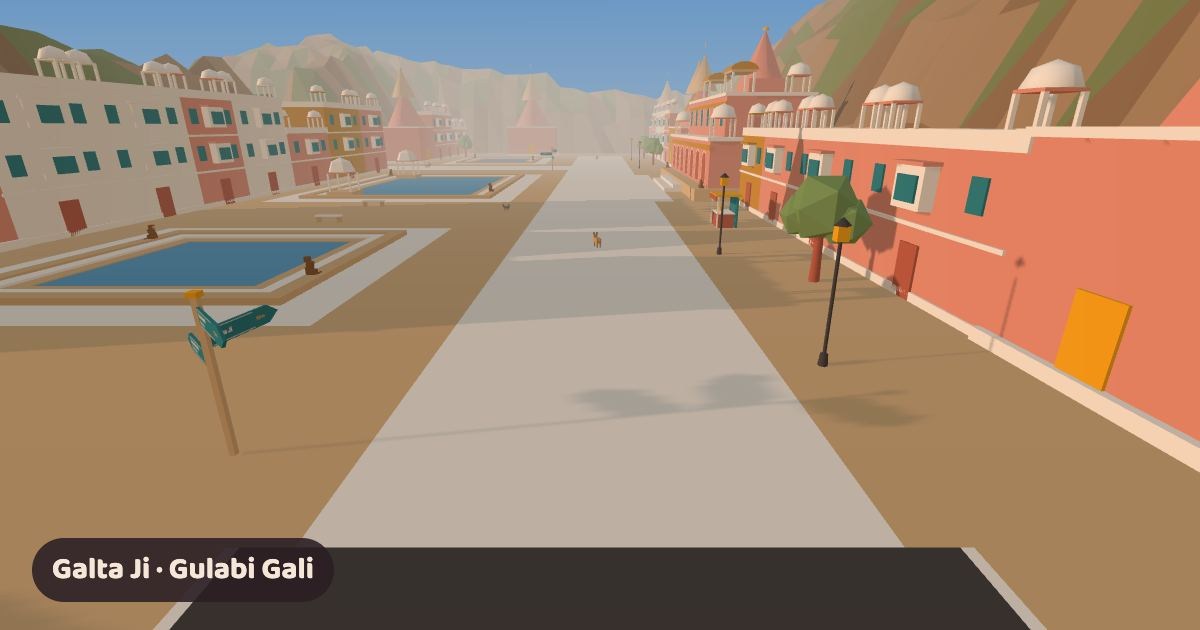
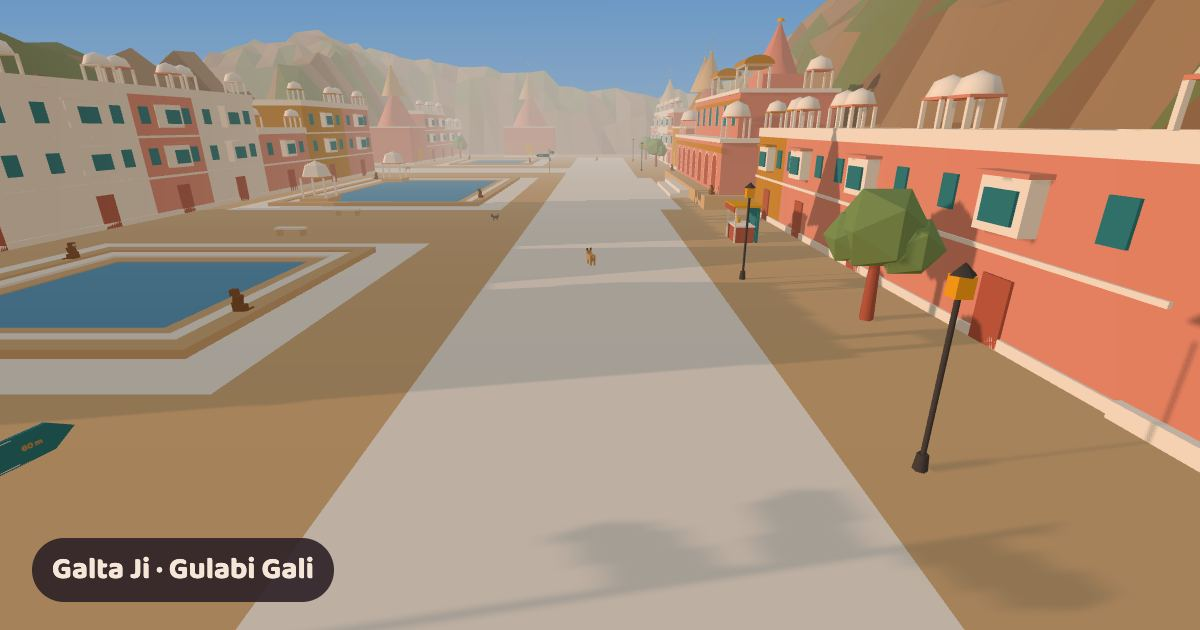
docs: what changes at this deploy (Worker first; roll back the site first), Galta Ji in the low-end run, the postcard's ratio and the hold hint as they are; og: Galta's district picture taken past the bus stand's roof

diff --git a/docs/device-performance.md b/docs/device-performance.md
@@ -232,10 +232,10 @@ sets the clock to noon on 14 January 2027 under that day's sun, so the kites are
 sky, 15 of them cut and drifting down, and 4 people flying theirs from the roofs, at tier 2), then walks for 8 s
 as before. "Walled City" is the same walk with no festival, on the same build.
 
-| Run                  | Walkable ms | Frames | p50 ms | p95 ms | p99 ms | Max ms | Over 33 ms | Tier after | Heap MB | Draw calls | Triangles | Geometries | Programs | Main thread ms/frame (task, script) |
-| -------------------- | ----------: | -----: | -----: | -----: | -----: | -----: | ---------: | ---------- | ------: | ---------: | --------: | ---------: | -------: | ----------------------------------- |
-| Walled City          |        1811 |    549 |   16.7 |   16.8 |   16.8 |    150 |          2 | 2          |     9.5 |         53 |    68,962 |         40 |       11 | 4.6, 3.0                            |
-| Sankranti, noon      |        1857 |    543 |   16.7 |   16.8 |   16.8 |     17 |          0 | 2          |    11.0 |         52 |    60,816 |         43 |       14 | 2.4, 1.7                            |
+| Run             | Walkable ms | Frames | p50 ms | p95 ms | p99 ms | Max ms | Over 33 ms | Tier after | Heap MB | Draw calls | Triangles | Geometries | Programs | Main thread ms/frame (task, script) |
+| --------------- | ----------: | -----: | -----: | -----: | -----: | -----: | ---------: | ---------- | ------: | ---------: | --------: | ---------: | -------: | ----------------------------------- |
+| Walled City     |        1811 |    549 |   16.7 |   16.8 |   16.8 |    150 |          2 | 2          |     9.5 |         53 |    68,962 |         40 |       11 | 4.6, 3.0                            |
+| Sankranti, noon |        1857 |    543 |   16.7 |   16.8 |   16.8 |     17 |          0 | 2          |    11.0 |         52 |    60,816 |         43 |       14 | 2.4, 1.7                            |
 
 Every target holds: walkable at 1.9 s, p50 16.7 ms, no frame over 33 ms, tier still 2. The kites, their strings
 and the flyers are three draw calls, three geometries and three shader programs (the flyers share the
@@ -271,6 +271,8 @@ device pixels; draw calls and triangles are the walk's last frame (`__gg.renderI
 |               |         0 |         891 |           723 |   16.7 |   16.7 |          0 |          0 | 360x740  |         19 |    11,614 |        2 |        7 |     9.5 | 2.3, 1.2                            |
 | Nahargarh     |         2 |         871 |           723 |   16.7 |   16.8 |          0 |          2 | 720x1480 |         31 |    21,152 |        3 |       11 |    10.8 | 2.3, 1.6                            |
 |               |         0 |         869 |           724 |   16.7 |   16.8 |          0 |          0 | 360x740  |         18 |    11,674 |        1 |        6 |    10.7 | 2.5, 1.6                            |
+| Galta Ji      |         2 |         992 |           724 |   16.7 |   16.7 |          0 |          2 | 720x1480 |         39 |    30,196 |        4 |       13 |    10.2 | 3.4, 2.1                            |
+|               |         0 |        1339 |           724 |   16.7 |   16.8 |          0 |          0 | 360x740  |         27 |    23,538 |        2 |        9 |    11.1 | 2.4, 1.3                            |
 
 The same run with the CPU slowed 20x (`DEVICE_PERF_CPU=20`), to look for the point where the main thread alone would
 push the tier down: walkable 2.5 to 5.4 s, p50 still 16.7 ms in every district, 0 to 4 frames over 33 ms of about
@@ -282,7 +284,10 @@ thread stays under a 60 fps frame, and well under the 22 ms the tier measures ag
 about 725 frames over 33 ms at 6x (limit 10%), heap 9 to 13 MB (limit 150), and the tier never had to move. The lowest
 tier really is thinner in every district, not only the Walled City: a quarter of the pixels (360 x 740 instead of
 720 x 1480), 41 to 47% fewer draw calls (the sun's shadow pass is gone: at tier 2 every caster is drawn twice), 45
-to 63% fewer triangles, 6 or 7 shader programs instead of 10 or 11, and 1 or 2 textures fewer (the shadow map's). The
+to 63% fewer triangles, 6 or 7 shader programs instead of 10 or 11, and 1 or 2 textures fewer (the shadow map's).
+Galta Ji (added to the run on 2026-11-25, after it joined the city) thins less, 31% fewer draw calls and 22% fewer
+triangles, because its gorge is one large mesh that tier 0 keeps whole (it casts no shadow, so the shadow pass
+saves little there); it still sits mid-table at tier 2 (39 draw calls, 30k triangles) and meets every target. The
 Walled City is the heaviest district by a wide margin (51 draw calls, 68k triangles, about 1.5x the next, MI Road);
 Nahargarh is the lightest. Textures are few and small (1 to 4: the sky's backdrop and the signposts' and posters'
 canvases, plus the sun's 1024 x 1024 shadow map at tier 2); no district loads an image file as a texture.

diff --git a/docs/deployment.md b/docs/deployment.md
@@ -437,6 +437,36 @@ services (FCM, Mozilla, Apple, Windows); any other endpoint is refused.
 - [ ] Open the site in Instagram's browser: the profile sheet explains why there are no notifications there.
 - [ ] Sign out on the phone, then send another request: nothing arrives.
 
+## 2f. Postcards, Sankranti, Galta Ji and real phones: what changes at deploy
+
+Nothing to set, no secret, no migration. Deploy in the usual order: the Worker (`npx wrangler deploy` from
+`backend/`), then dispatch the `pages` workflow.
+
+- **The Worker** learns the seventh district, `galta`, and the 14th stamp, `galta-ji` (appended, so a page from
+  before still sends its 13 and is accepted). The Worker must go first: an older Worker refuses a whole stamp
+  upload that holds `galta-ji`. For the same reason, **to roll back, roll back the site first, then the Worker.**
+- **The service worker** (`sw.js`) is now registered for every visitor, not only for those who switch on
+  notifications, so phones can install the site to the home screen. It has no fetch listener and caches nothing:
+  every request still goes straight to the network, and `/p/` pages are untouched by it.
+- **Sankranti** (13–14 January 2027) needs nothing: `sankranti` is one of the first six festival ids, so every
+  page, old or new, already gets it from `/api/city`.
+- **Link-preview pictures** are committed JPEGs (`frontend/public/og/`); the site build only copies them. Run
+  `npm run og-images -w frontend -- <name>` on a Mac only when a place's look changes, and look at what it made.
+
+**Real-phone checks**
+
+- [ ] Android Chrome: after two minutes in the city, the hint "Gulabi Gali ko home screen pe rakho" shows once;
+      Rakho installs it; opening it from the home screen opens the city full-screen with no hint.
+- [ ] iPhone Safari: the same hint says where Share → "Add to Home Screen" is; Share → Add to Home Screen works.
+- [ ] Inside Instagram: the welcome screen's note "⋯ ya ⋮ dabao, browser chuno"; photo mode → Postcard → the
+      picture alone with "Tasveer pe der tak dabao aur save karo"; press and hold saves it to the gallery.
+- [ ] In Chrome on Android: Postcard and the Darshan list's "Card banao" open the share sheet; Instagram Stories
+      takes the 1080×1920 picture whole.
+- [ ] Paste `https://gulabi-gali.manishbisht.me/p/galta/galta-ji/` into WhatsApp (and Facebook's Sharing
+      Debugger): the card shows "Galta Ji", a line about it and the temple's picture; tapping it lands by the temple.
+- [ ] On a cheap Android phone, take the bus to Galta Ji: it opens, the kunds stop you at their edge, the
+      climb to the Surya Mandir viewpoint works, and walking stays smooth.
+
 ## 3. Budget alerts
 
 Cloudflare dashboard, Notifications, Add:

diff --git a/docs/architecture.md b/docs/architecture.md
@@ -610,7 +610,7 @@ person card and your own profile sheet show "Jaipur Darshan · n/14" and the lan
 
 Two pictures to post, both 1080×1920 (an Instagram Story), drawn on a plain 2D canvas by `cards.ts`, a chunk
 loaded the first time one is made. Photo mode's "Postcard" frame takes one frame through `Stage.capture` (no
-`preserveDrawingBuffer`; it may ask for a higher ratio, capped at the photo ceiling and never on quality tier 0),
+`preserveDrawingBuffer`; it may ask for a higher ratio, capped at the photo ceiling and only on the top quality tier),
 cuts its middle to 9:16 (`coverCrop`) and adds a band "Gulabi Gali · <place> · Jaipur" (the landmark whose ring
 the player is in, else the district; the place shrinks, then is cut with "…", `fitBand`) with the site's address,
 in the site's own fonts once `document.fonts` has them (or after 2 s, a system font). Name labels and bubbles over
@@ -619,8 +619,9 @@ The Darshan sheet's "Card banao" draws "Mera Jaipur Darshan", n/`TOTAL_STAMPS`, 
 every stamp in order (collected as a pink seal with its name, the rest as a dashed "?") and the address. It
 prints a name only when a resident ticks "naam dikhao" (off each time the sheet opens), and then only the first
 word (`cardName`). Neither picture carries an account id. `shareImage` hands a picture to the share sheet when
-`navigator.canShare({files})`; in Instagram's in-app browser (its user agent), which can neither share files nor
-download, `HoldToSave` shows it alone with "Photo pe der tak dabao aur save karo"; anywhere else it downloads.
+`navigator.canShare({files})`; in Instagram's or Facebook's in-app browser (`socialApp`, the same check as the
+welcome screen's note), which cannot be trusted to share files or download, `HoldToSave` shows it alone with "Tasveer
+pe der tak dabao aur save karo" and a small download link; anywhere else it downloads.
 
 ### Aaj ka Darshan: one small goal a day (`today.ts`, `frontend/src/world/today.ts`, `useToday.ts`)
 
